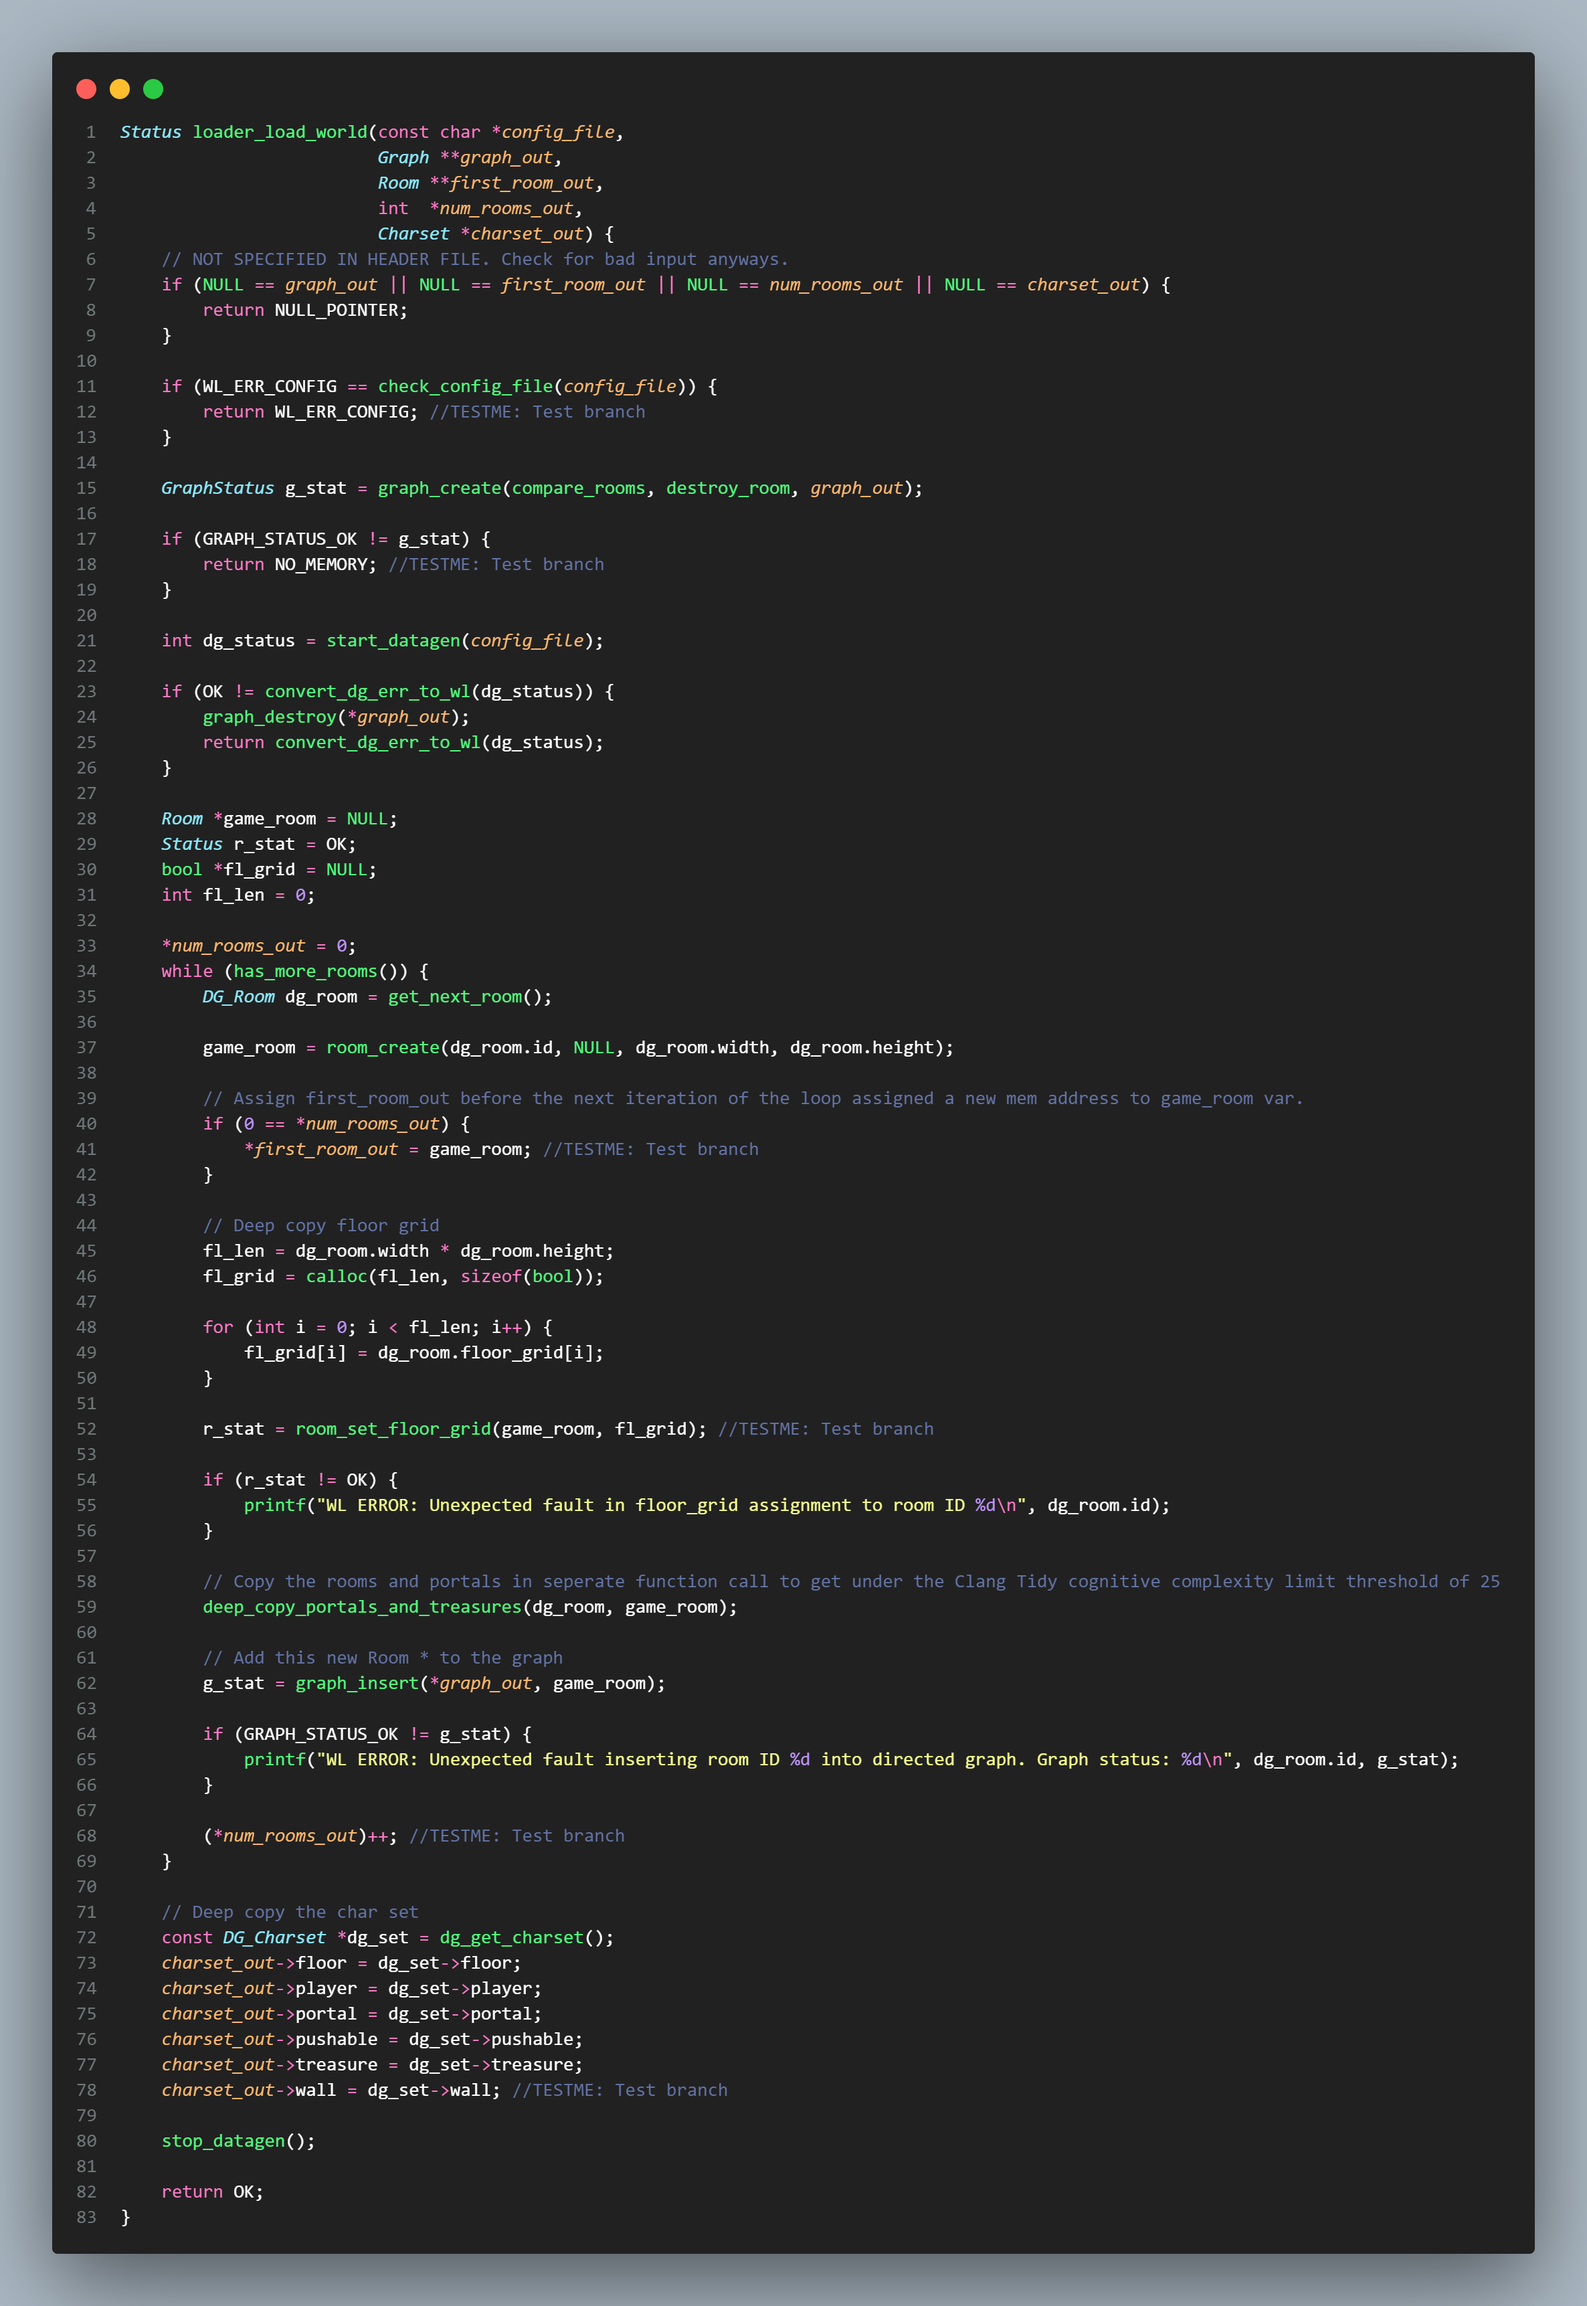
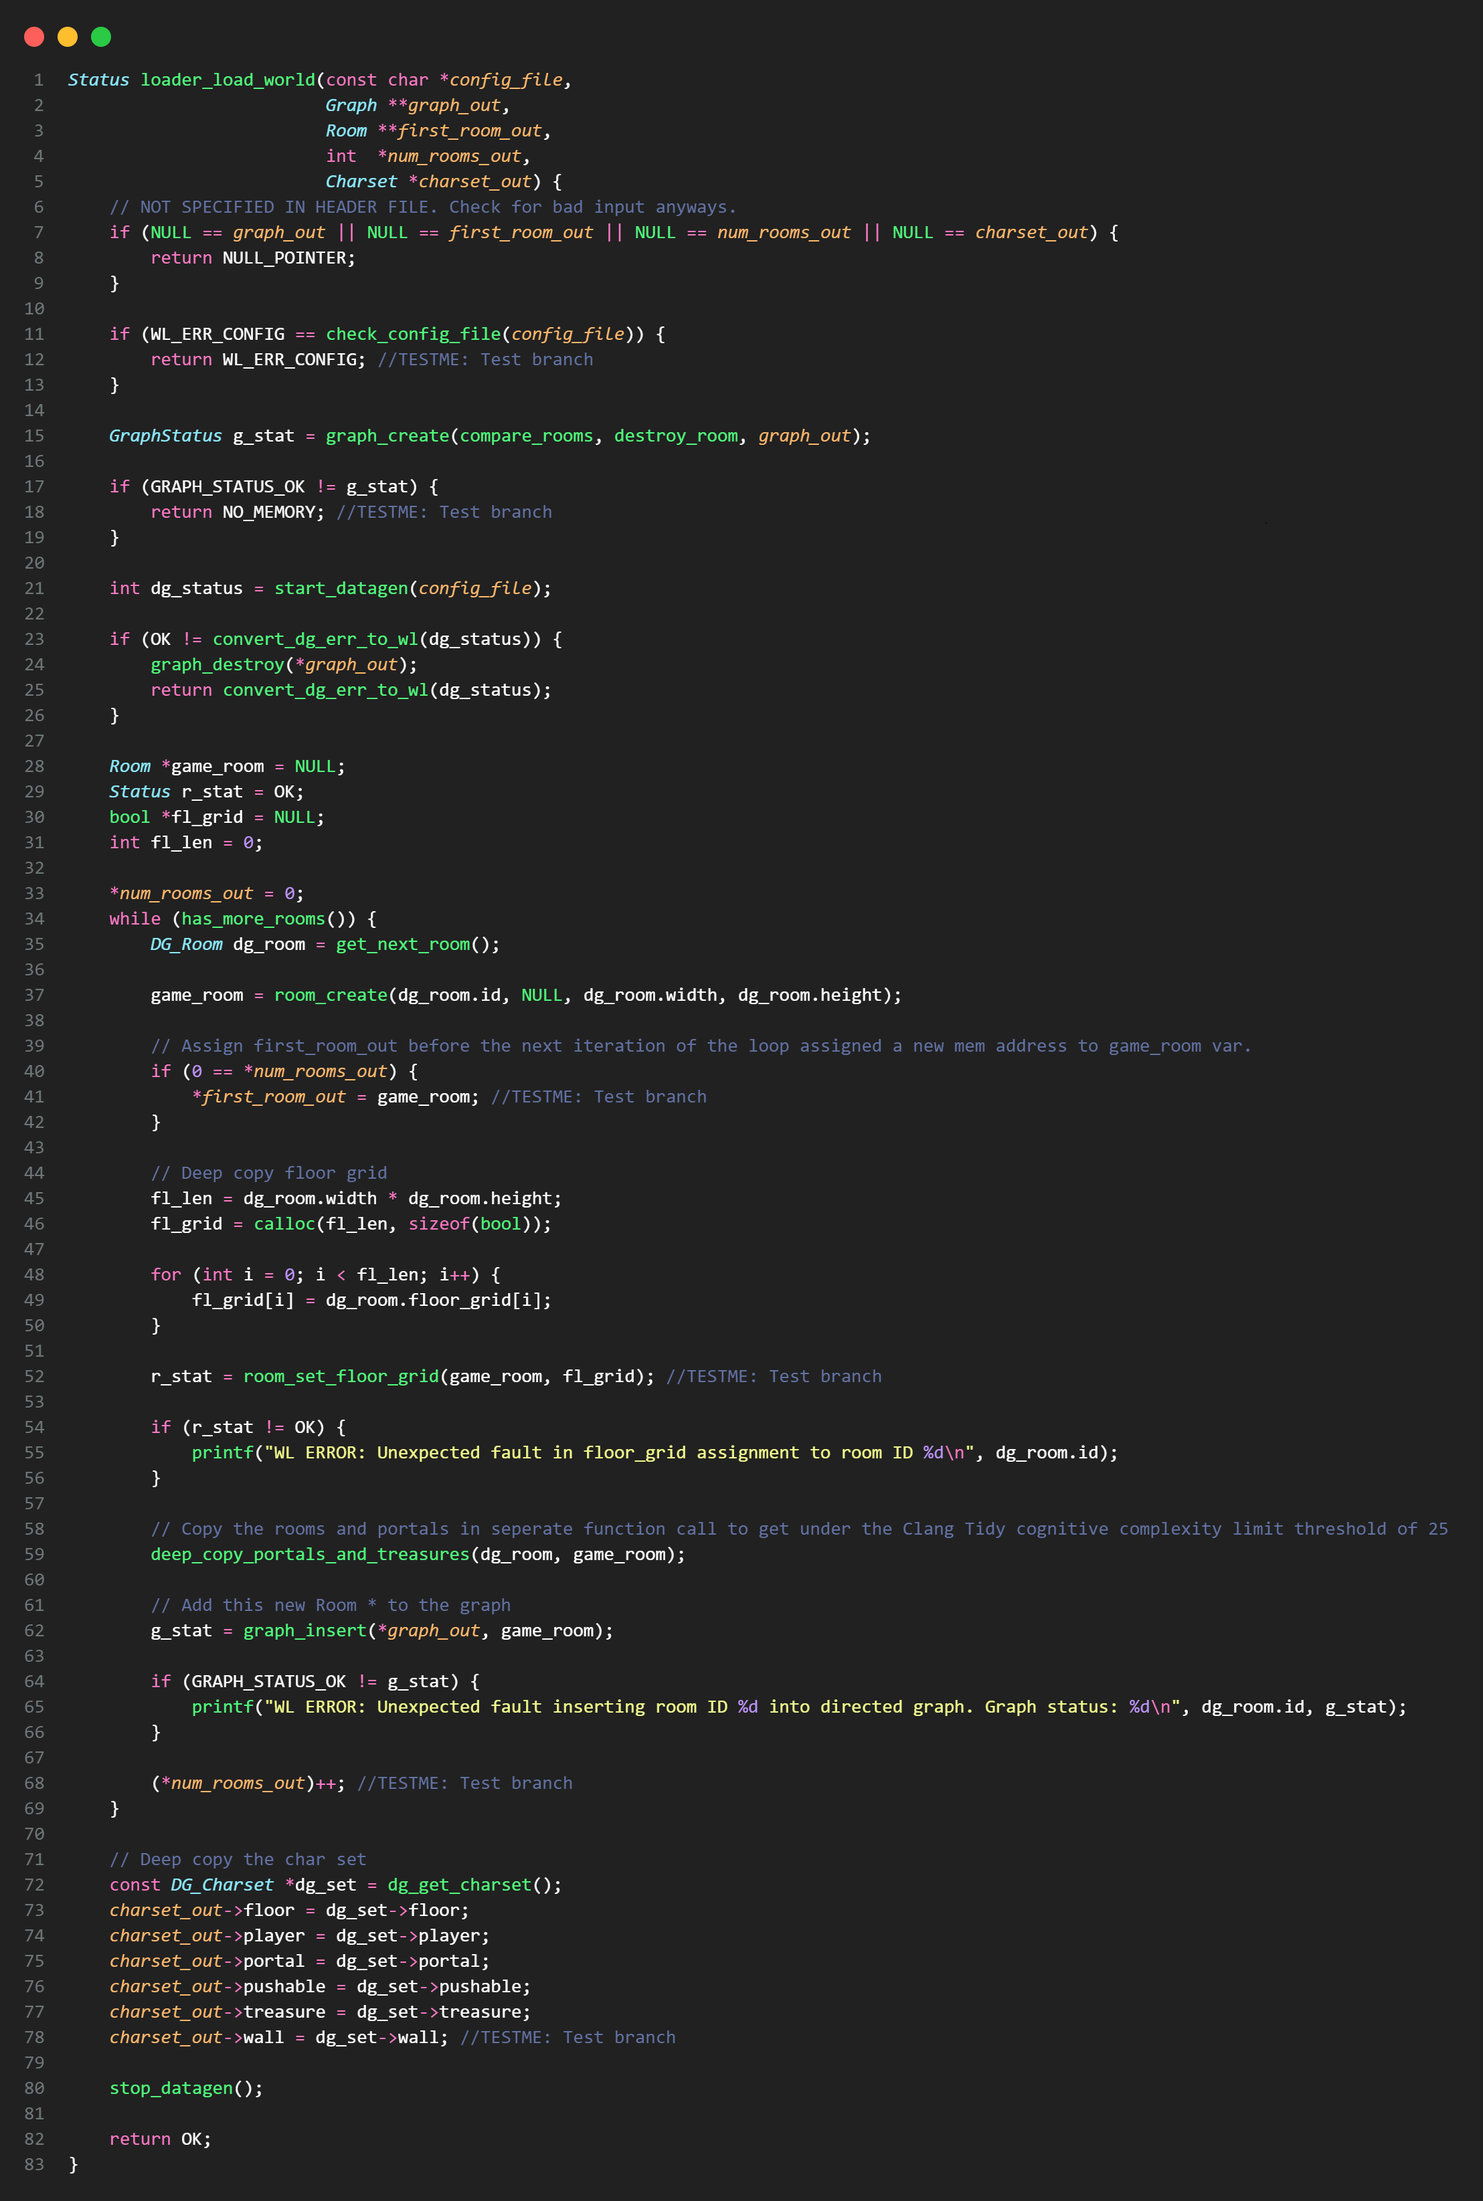
Add cis2750 A2

diff --git a/www/html/proj/JuliasJubilantJourney.html b/www/html/proj/JuliasJubilantJourney.html
@@ -152,19 +152,45 @@
 
                 <div class="img_txt_section">
                     <div class="img_txt_section_img_div">
-                        <img class="no_border_radius img_txt_section_img"
-                            src="images/CatanConnect-2548.webp"
-                            srcset="images/CatanConnect-637.webp 637w,
-                                    images/CatanConnect-1274.webp 1274w,
-                                    images/CatanConnect-2548.webp 2548w"
-                            sizes="(min-width: 500px) calc(40vw - 50px), calc(78.75vw - 236px)"
+                        <img class="img_txt_section_img"
+                            src="images/originals/cis2750_a2.png"
                             alt="A screenshot of the old menu used to connect to an online game of catan.">
                     </div>
 
                     <div class="img_txt_section_txt">
                         <p class="proj_p">
-                            Paragraph B
+                            The second part was all about building a python wrapper of the C backend library. Using <code>ctypes</code> the argument types
+                            and result types were defined. Then classes were defined in Python with methods that would call the backend C functions with lots of error
+                            handling. A new A2 git repo was set up for this second part. The initial commit of the A2 repo was copying the state of the repo from part one.
+                            This also meant that development stopped on the A1 repo at this time which makes it a perfect snapshot of the start of part 2.
+                            <br><br>
+                            It was important that the top level classes and methods were a <i>pythonic</i> as possible. The goal was that if the user only opens
+                            <code>run_integration.py</code> in A2 or the future python files <code>run_game.py</code> and <code>game_ui.py</code> from A3 that
+                            they would have no idea 77% of the source code for the game was written in C.
                         </p>
+
+                        <div class="nav_button_div">
+                            <a class="nav_button_anchor"
+                                href="https://github.com/Tacitor/CIS2750-A2"
+                                target="_blank">
+                                <div class="nav_button_anchor_flex">
+                                    <div class="nav_button_anchor_flex_svg">
+                                        <svg class="nav_button_svg"
+                                            xmlns="http://www.w3.org/2000/svg"
+                                            viewBox="0 0 16 16"
+                                            width="32" height="32" fill="#eaeaee">
+                                            <path
+                                                d="M8 0c4.42 0 8 3.58 8 8a8.013 8.013 0 0 1-5.45 7.59c-.4.08-.55-.17-.55-.38 0-.27.01-1.13.01-2.2 0-.75-.25-1.23-.54-1.48 1.78-.2 3.65-.88 3.65-3.95 0-.88-.31-1.59-.82-2.15.08-.2.36-1.02-.08-2.12 0 0-.67-.22-2.2.82-.64-.18-1.32-.27-2-.27-.68 0-1.36.09-2 .27-1.53-1.03-2.2-.82-2.2-.82-.44 1.1-.16 1.92-.08 2.12-.51.56-.82 1.28-.82 2.15 0 3.06 1.86 3.75 3.64 3.95-.23.2-.44.55-.51 1.07-.46.21-1.61.55-2.33-.66-.15-.24-.6-.83-1.23-.82-.67.01-.27.38.01.53.34.19.73.9.82 1.13.16.45.68 1.31 2.69.94 0 .67.01 1.3.01 1.49 0 .21-.15.45-.55.38A7.995 7.995 0 0 1 0 8c0-4.42 3.58-8 8-8Z">
+
+                                            </path>
+                                        </svg>
+                                    </div>
+                                    <div class="nav_button_anchor_flex_text">
+                                        View A2 Source
+                                    </div>
+                                </div>
+                            </a>
+                        </div>
                     </div>
                 </div>
 
@@ -176,7 +202,11 @@
                     <br>
                     <br>
 
-                    Paragraph D
+                    Add this to the A3 README. Need to run on Linux preferable Debian based. Prerequisites are make gcc python3 (sudo apt install make gcc python3)
+                    Navigate to CIS2750-A3/python. Run make dist, then if there have been no errors it should be ready to go. For quick testing you
+                    can run make play which will use the ../assets/test.json player profile. Once you are ready to play on your own profile run
+                    python3 run_game.py --config ../assets/&lt;CONFIG_FILE&gt;.ini --profile ../assets/&lt;PLAYER_PROFILE_FILE&gt;.json. The &lt;PLAYER_PROFILE_FILE&gt;
+                    may be an existing file, or one that doesn't exist yet. The game will handel it.
 
                 </div>
 
